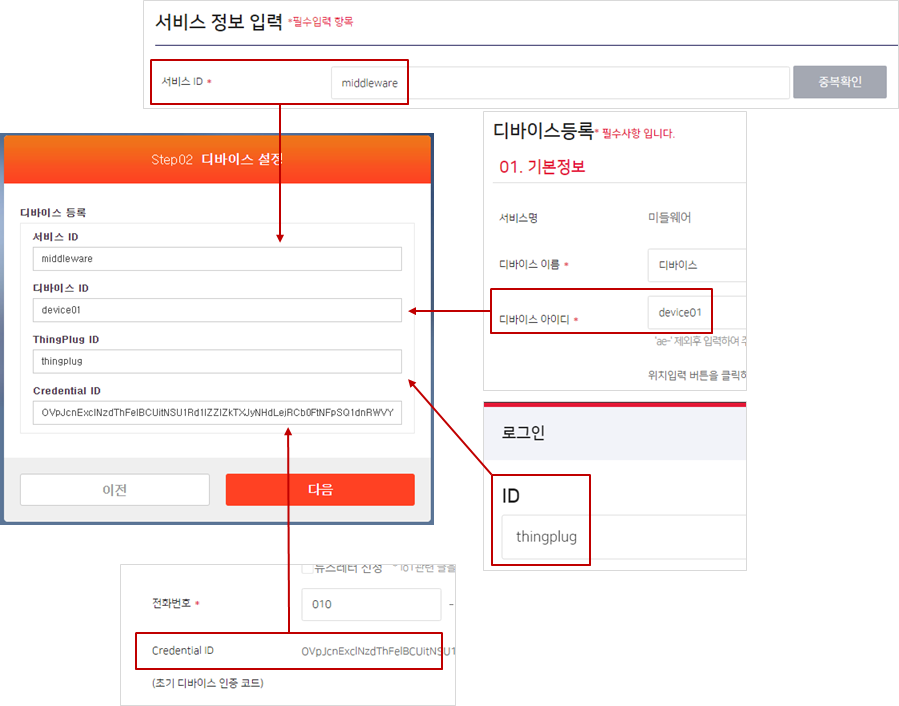
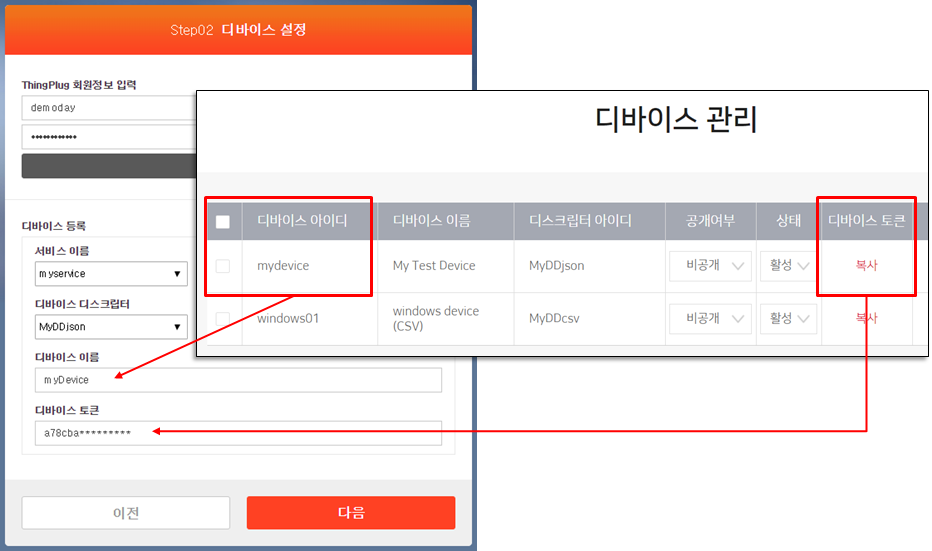
simple working.

Changed region(s): [[0.0, 0.0, 1.0, 1.0], [0.5606, 0.2777, 0.5918, 0.3394], [0.1557, 0.833, 0.218, 0.8639]]

diff --git a/Simple_mw/Simple_Guide.md b/Simple_mw/Simple_Guide.md
@@ -11,8 +11,8 @@
 *  먼저 로그인을 진행해야 서비스이름과 디바이스 디스크립터를 선택할 수 있다.
 *  서비스 이름을 선택한다.
 *  디바이스 디스크립터를 선택한다.
-*  등록할 디바이스 이름은 ThingPlug Portal > ? 로 설정한다.
-*  디바이스 토큰은 ThingPlug Portal > ? 로 설정한다.
+*  등록할 디바이스 이름과 토큰은 ThingPlug Portal 에 등록한 정보로 설정한다.
+
 
 ![](images/registerDevice.png)
 
@@ -22,6 +22,6 @@
 
 ![](images/registerCompleted.png)
 
-* 등록이 성공한 기기는 ThingPlug Portal `Develop > 디바이스 연동 > 디바이스 관리` 메뉴에서 아래와 같이 확인이 가능하다.
+* 등록이 성공한 기기는 ThingPlug Portal `Service > 대시보드` 메뉴에서 위젯을 추가하면 아래와 같이 확인이 가능하다.
 
 ![](images/checkResult.png)
